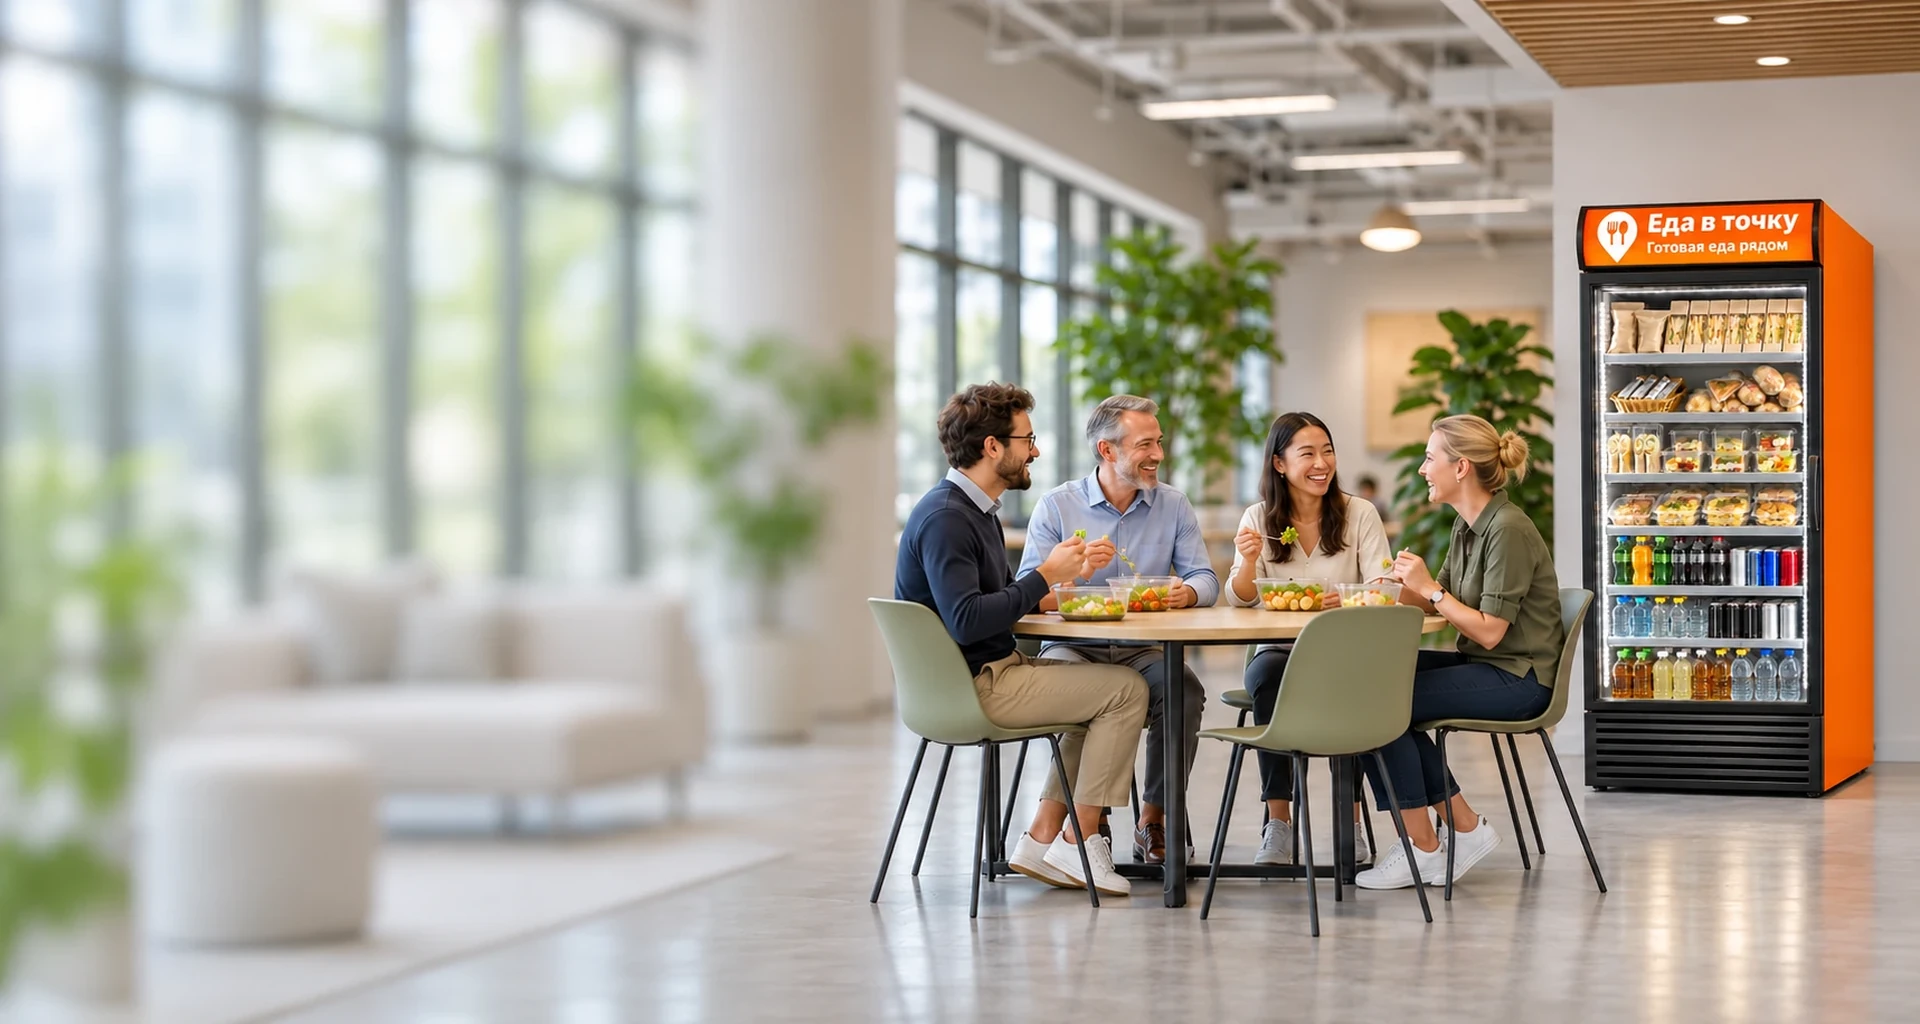
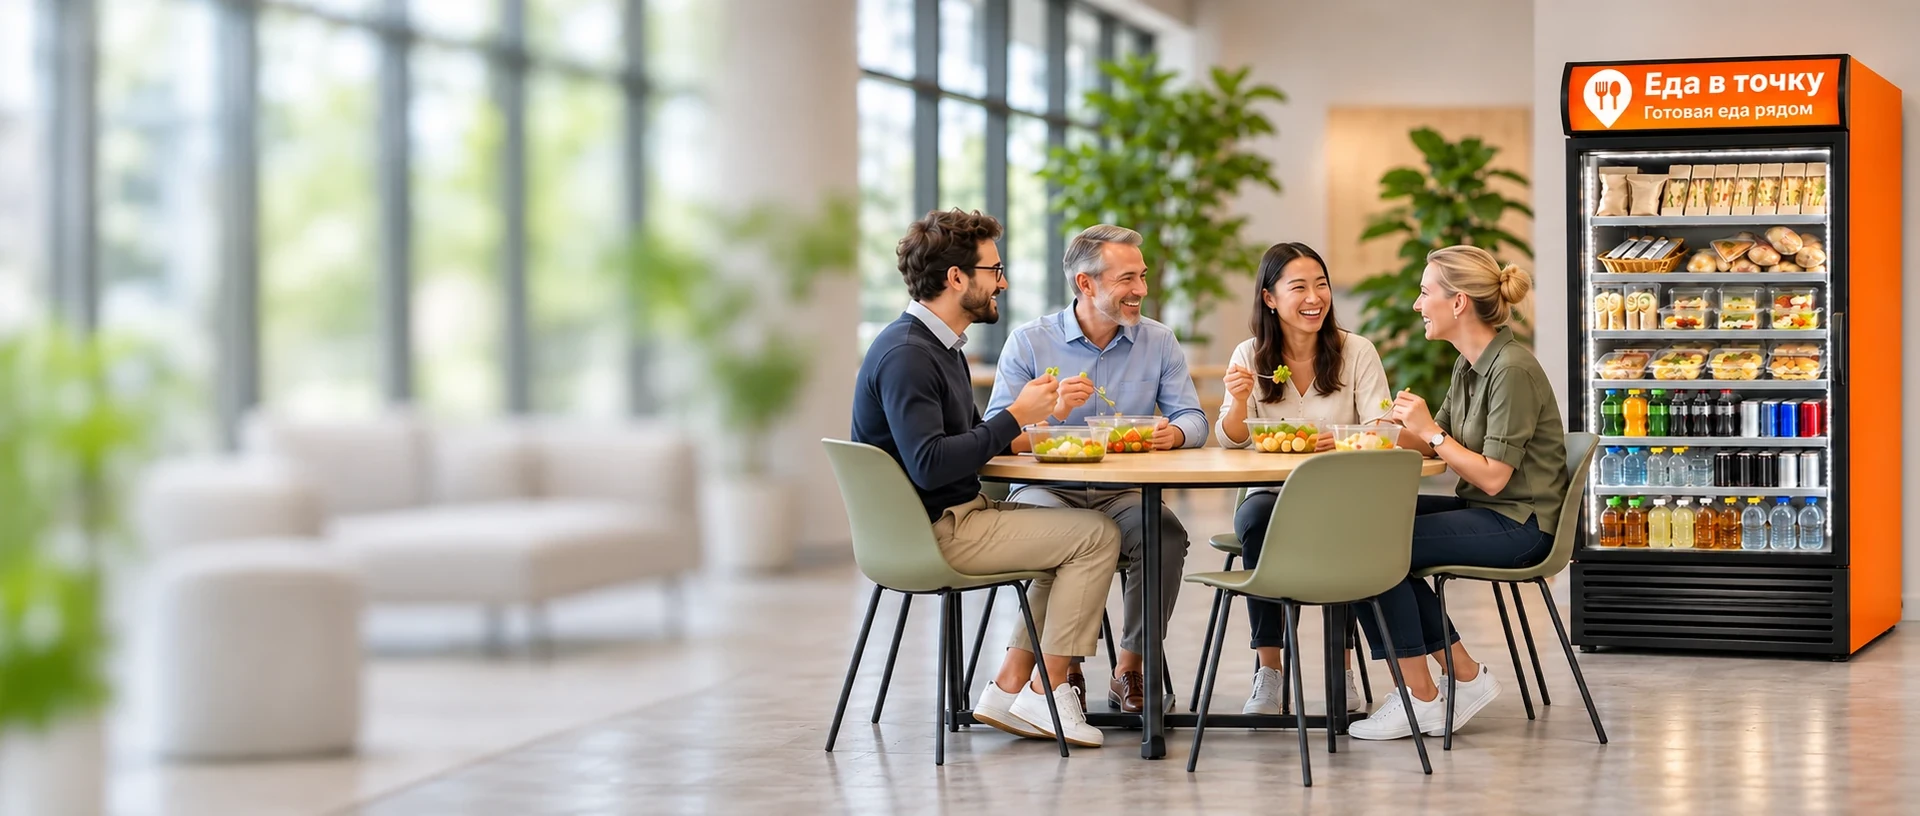
Hero v5: новая панорама 1920×816 (1925×817 оригинал), шапка на узких экранах 901–1200 px складывается как на телефоне (#29)
Claude-Session: https://claude.ai/code/session_01RjrWoY9dTF8Jmk433wLEoj

diff --git a/landing.css b/landing.css
@@ -340,7 +340,17 @@ h1,h2,h3,p { overflow-wrap:break-word; }
 .lp-logo img { height:54px; }
 @media(max-width:650px) { .lp-logo img { height:42px; } }
 @media(min-width:901px) {
-  .lp-hero-grid { min-height:clamp(520px,34vw,660px); }
-  .lp-slide-img { object-position:center 48%; }
+  .lp-hero-grid { min-height:clamp(540px,33vw,700px); }
+  .lp-slide-img { object-position:75% 20%; }
 }
-@media(max-width:900px) { .lp-slide-img { object-position:100% 45%; } }
+@media(max-width:900px) { .lp-slide-img { object-position:100% 40%; } }
+
+/* Узкие ноутбуки и планшеты (901–1200 px): текст над картинкой, как на телефоне, чтобы заголовок не перекрывал людей */
+@media(min-width:901px) and (max-width:1200px) {
+  .lp-slide { display:flex; flex-direction:column; }
+  .lp-hero-grid { min-height:0; }
+  .lp-hero-copy { padding:36px 0 28px; max-width:none; text-shadow:none; }
+  .lp-slide-img { position:relative; inset:auto; order:2; height:380px; object-position:100% 35%; }
+  .lp-arrow { top:auto; bottom:12px; transform:none; width:36px; height:36px; }
+  .lp-dots { bottom:22px; }
+}

diff --git a/index.html b/index.html
@@ -23,7 +23,7 @@
     <section class="lp-hero lp-slider" aria-roledescription="carousel" aria-label="Главный баннер">
       <div class="lp-slides">
       <div class="lp-slide is-active" role="group" aria-roledescription="slide" aria-label="Слайд 1">
-      <img class="lp-slide-img" src="images/hero.webp" width="1920" height="1024" alt="Коллеги обедают в светлом офисе рядом с умным холодильником с готовой едой" fetchpriority="high" decoding="async">
+      <img class="lp-slide-img" src="images/hero.webp" width="1920" height="816" alt="Коллеги обедают в светлом офисе рядом с умным холодильником с готовой едой" fetchpriority="high" decoding="async">
       <div class="lp-wrap lp-hero-grid">
         <div class="lp-hero-copy">
           <p class="lp-eyebrow">Умный холодильник с готовой едой</p>

diff --git a/tools/convert_illustrations.py b/tools/convert_illustrations.py
@@ -6,7 +6,7 @@ from PIL import Image, ImageOps
 import argparse
 
 SPECS: dict[str, tuple[int, int]] = {
-    "hero": (1920, 1024),
+    "hero": (1920, 816),
     "fridge-open": (1200, 900),
     "food-hot": (800, 600),
     "food-salads": (800, 600),
